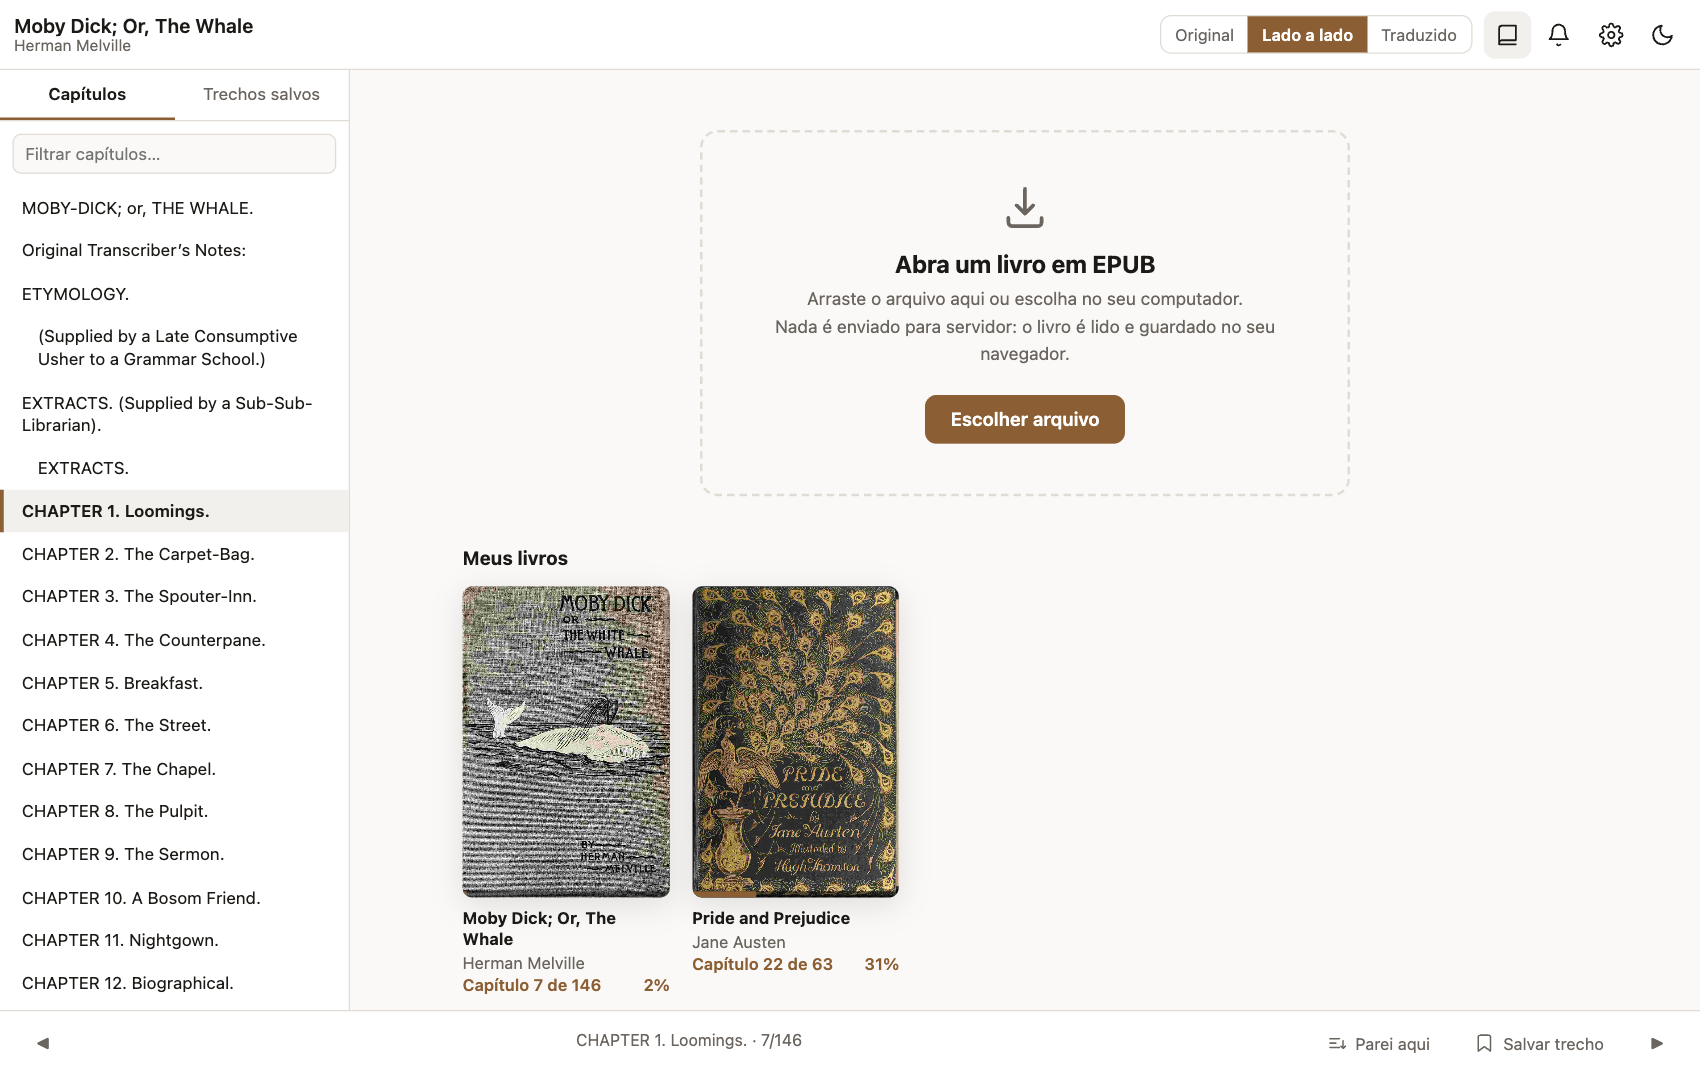
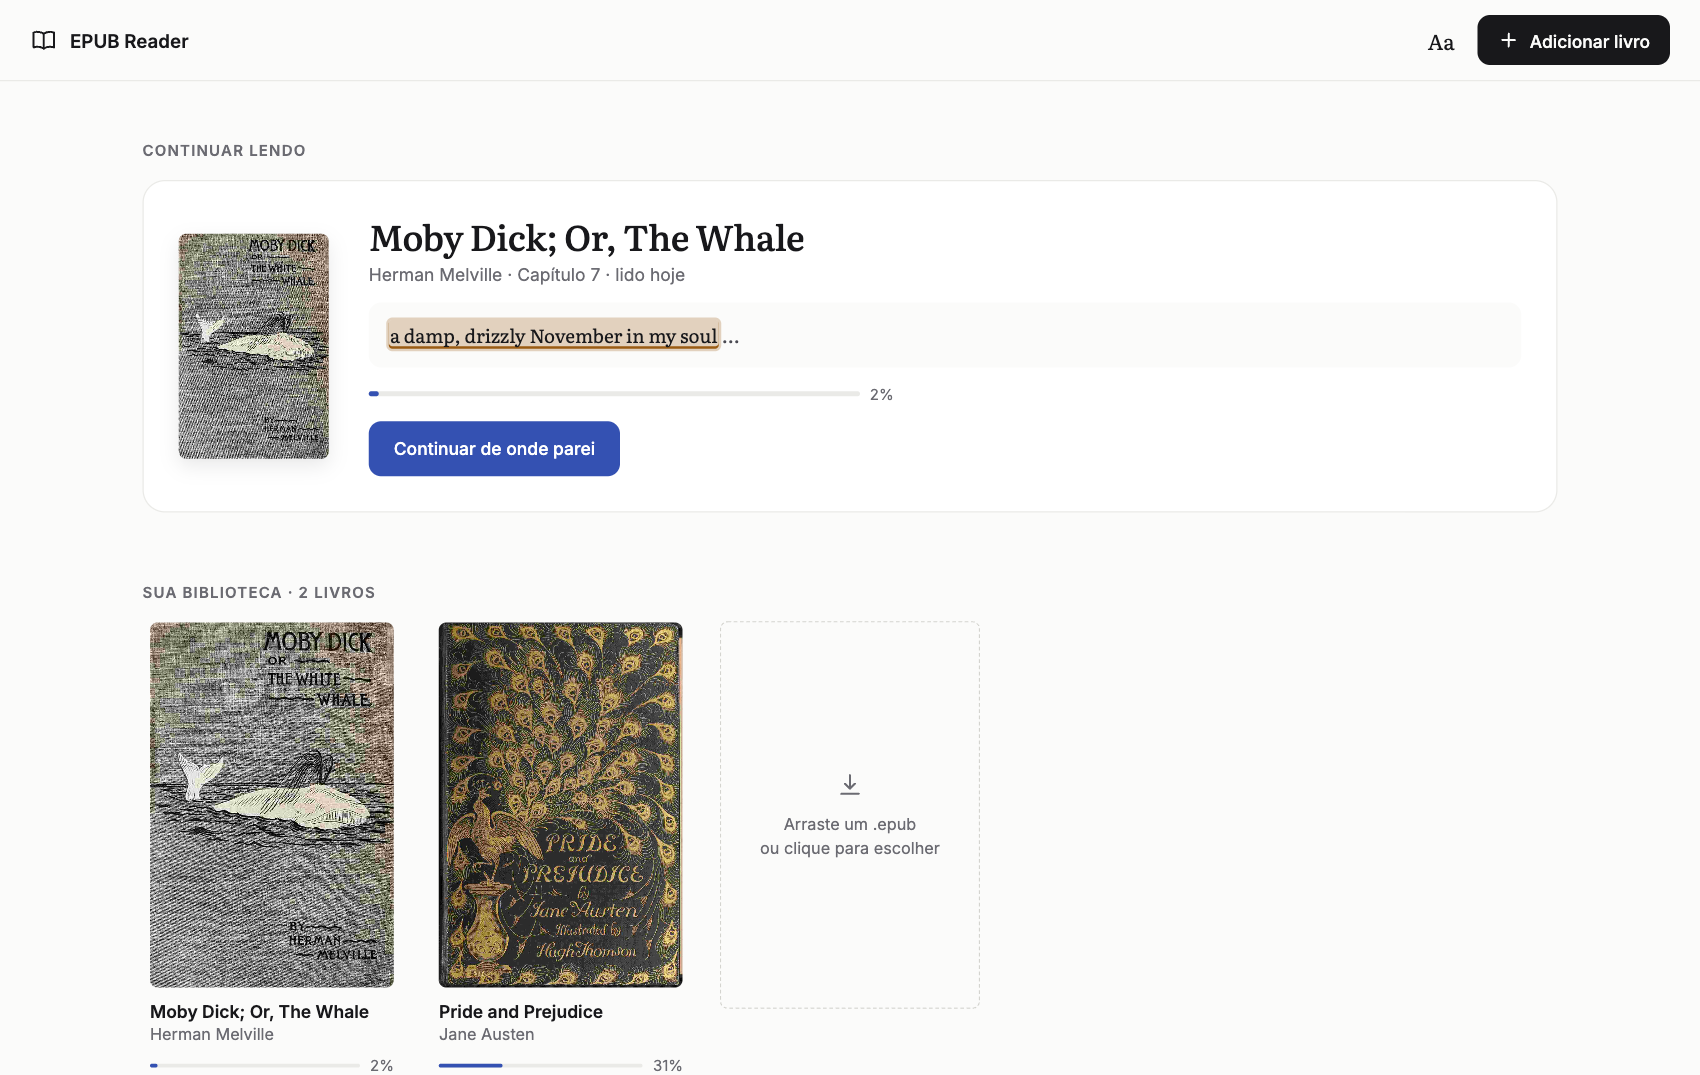
Capturas do README no visual novo
Leitura lado a lado com um "parei aqui", biblioteca com "Continuar lendo" e
leitura no celular em tema escuro, geradas a partir do cache de traduções
(serviços de tradução bloqueados durante a captura).

A do dicionário fica para depois: o Google estava limitando os pedidos e a
consulta da palavra não estava em cache.

diff --git a/README.md b/README.md
@@ -17,7 +17,7 @@ livros ficam guardados só no seu computador.
 ![Grátis](https://img.shields.io/badge/pre%C3%A7o-gr%C3%A1tis-brightgreen)
 ![Sem cadastro](https://img.shields.io/badge/cadastro-n%C3%A3o_precisa-brightgreen)
 
-<img src="docs/screenshots/lado-a-lado.png" alt="Capítulo 1 de Moby Dick no modo lado a lado: texto original em inglês à esquerda e tradução em português à direita, alinhados por parágrafo" width="100%">
+<img src="docs/screenshots/lado-a-lado.png" alt="Capítulo 1 de Moby Dick no modo lado a lado: texto original em inglês à esquerda e tradução em português à direita, alinhados por parágrafo, com uma frase destacada como parei aqui" width="100%">
 
 </div>
 
@@ -118,7 +118,7 @@ Para tirar um livro da biblioteca, use o menu **⋯** no card e escolha
 **Remover livro**. Isso apaga também o progresso, as marcas e as traduções
 guardadas daquele livro.
 
-<img src="docs/screenshots/biblioteca.png" alt="Biblioteca com Moby Dick em 2% e Pride and Prejudice em 31%, com a barra de progresso na base da capa" width="100%">
+<img src="docs/screenshots/biblioteca.png" alt="Biblioteca com o card Continuar lendo de Moby Dick, que mostra a frase marcada como parei aqui, e a estante com Moby Dick em 2% e Pride and Prejudice em 31%" width="100%">
 
 ### No celular
 
